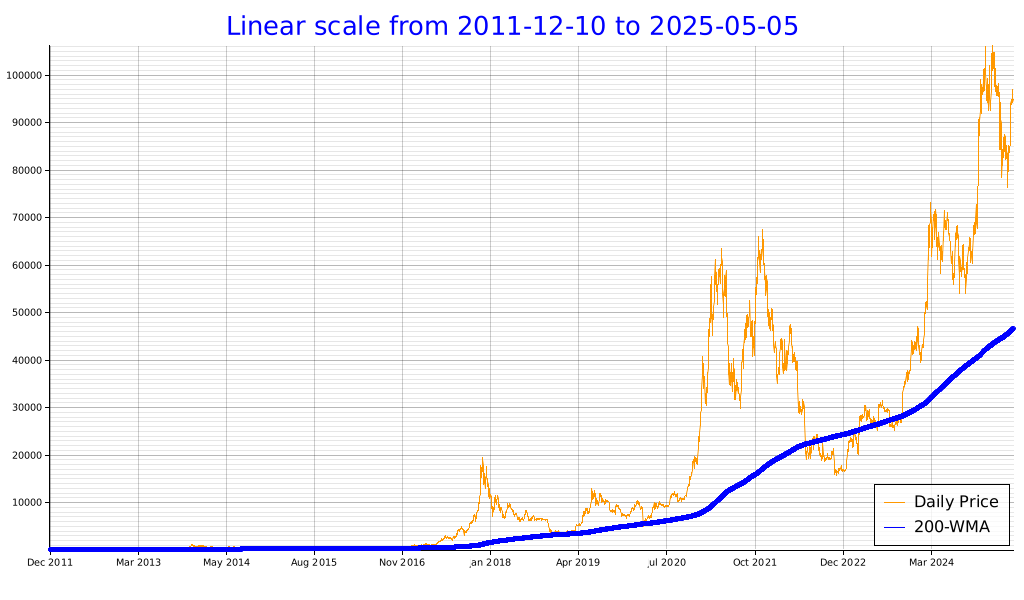
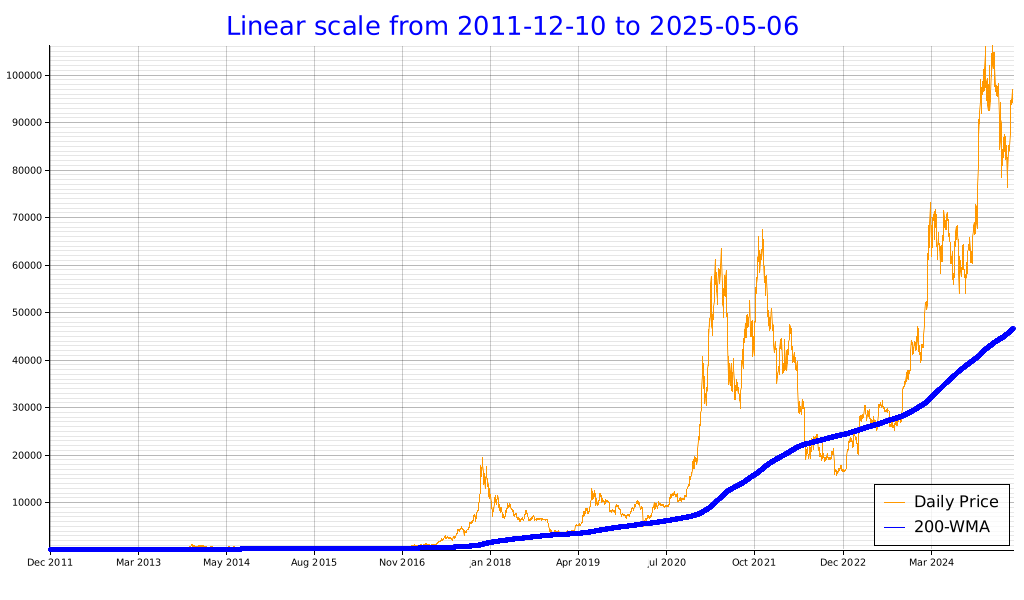
deploy: 32c38bfc33973f71076a7465fb8cd65e6d188ef2

diff --git a/index.html b/index.html
@@ -221,16 +221,16 @@
         </thead>
         <tbody>
           <tr>
-            <td>2025-05-05</td>
-            <td>94,301.07</td>
-            <td>95,174.15</td>
-            <td>93,612.32</td>
-            <td>94,814.57</td>
-            <td class='wma-column'>46,627.66</td>
-            <td>43.62 (0.09 %)</td>
-            <td>61,068.56 (180.9 %)</td>
-            <td>1,561.82 (1.6 %)</td>
-            <td>498.59 (0.5 %)</td>
+            <td>2025-05-06</td>
+            <td>94,746.03</td>
+            <td>94,856.12</td>
+            <td>94,465.39</td>
+            <td>94,493.96</td>
+            <td class='wma-column'>46,627.44</td>
+            <td>43.40 (0.09 %)</td>
+            <td>60,747.96 (180.0 %)</td>
+            <td>390.72 (0.4 %)</td>
+            <td>177.99 (0.1 %)</td>
           </tr>
           <tr>
             <td>2025-05-04</td>
